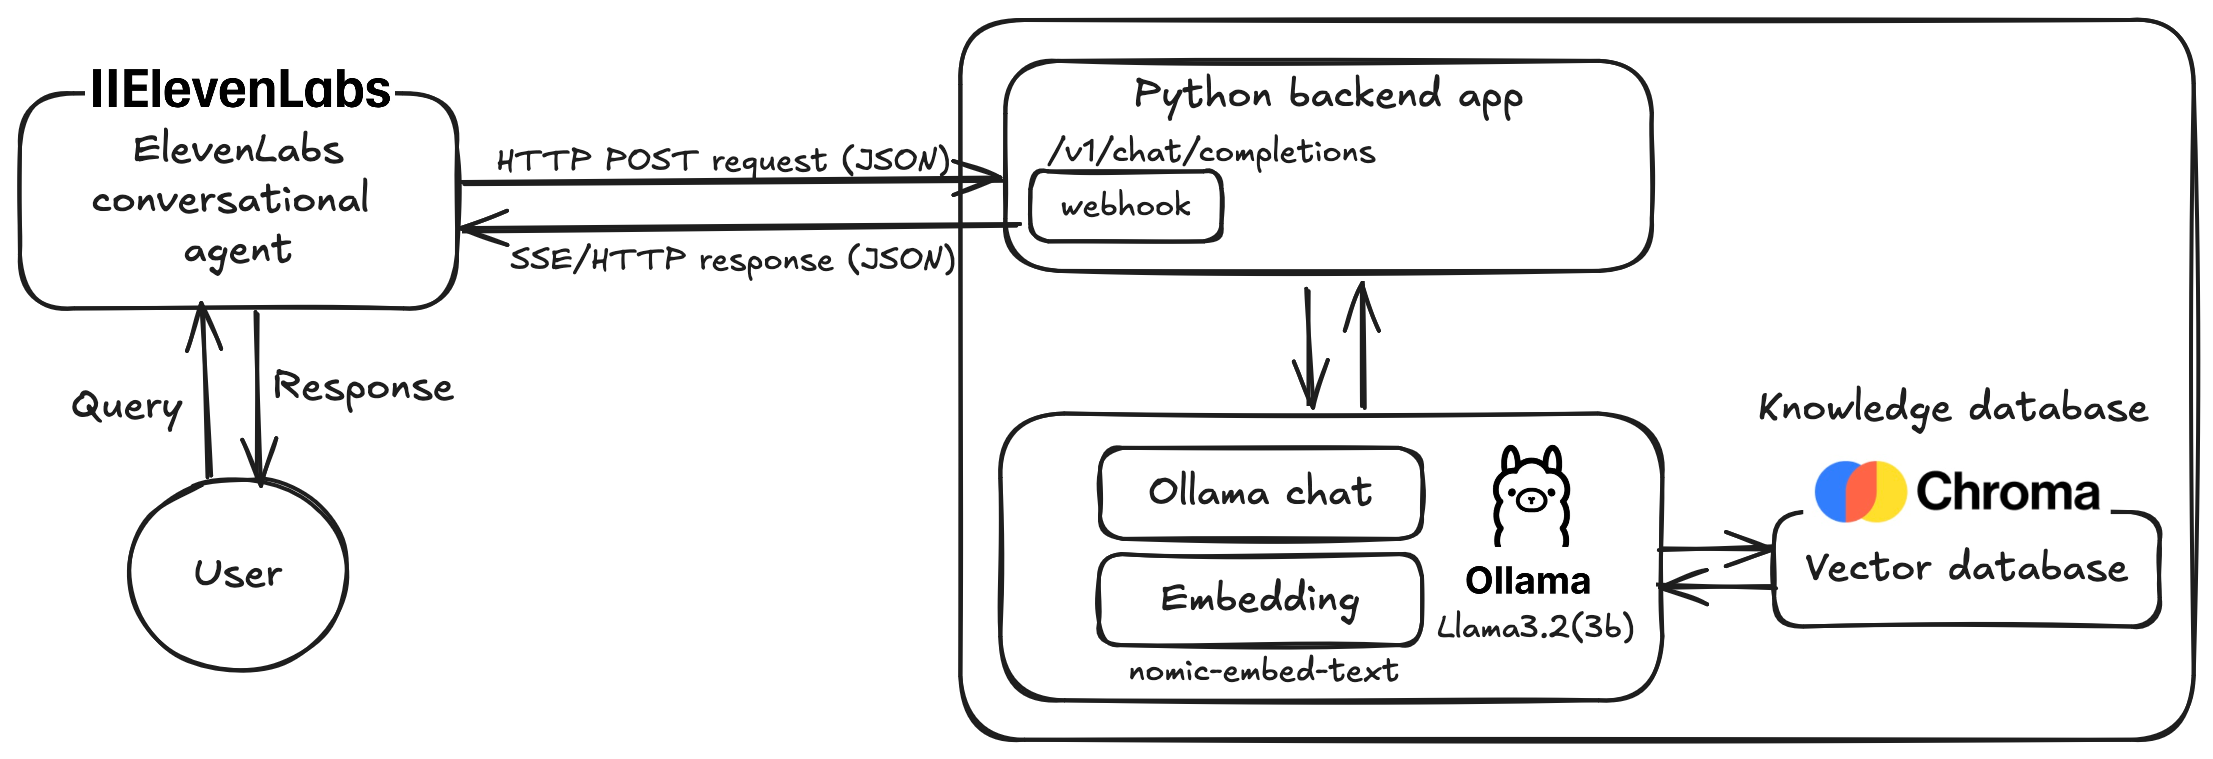
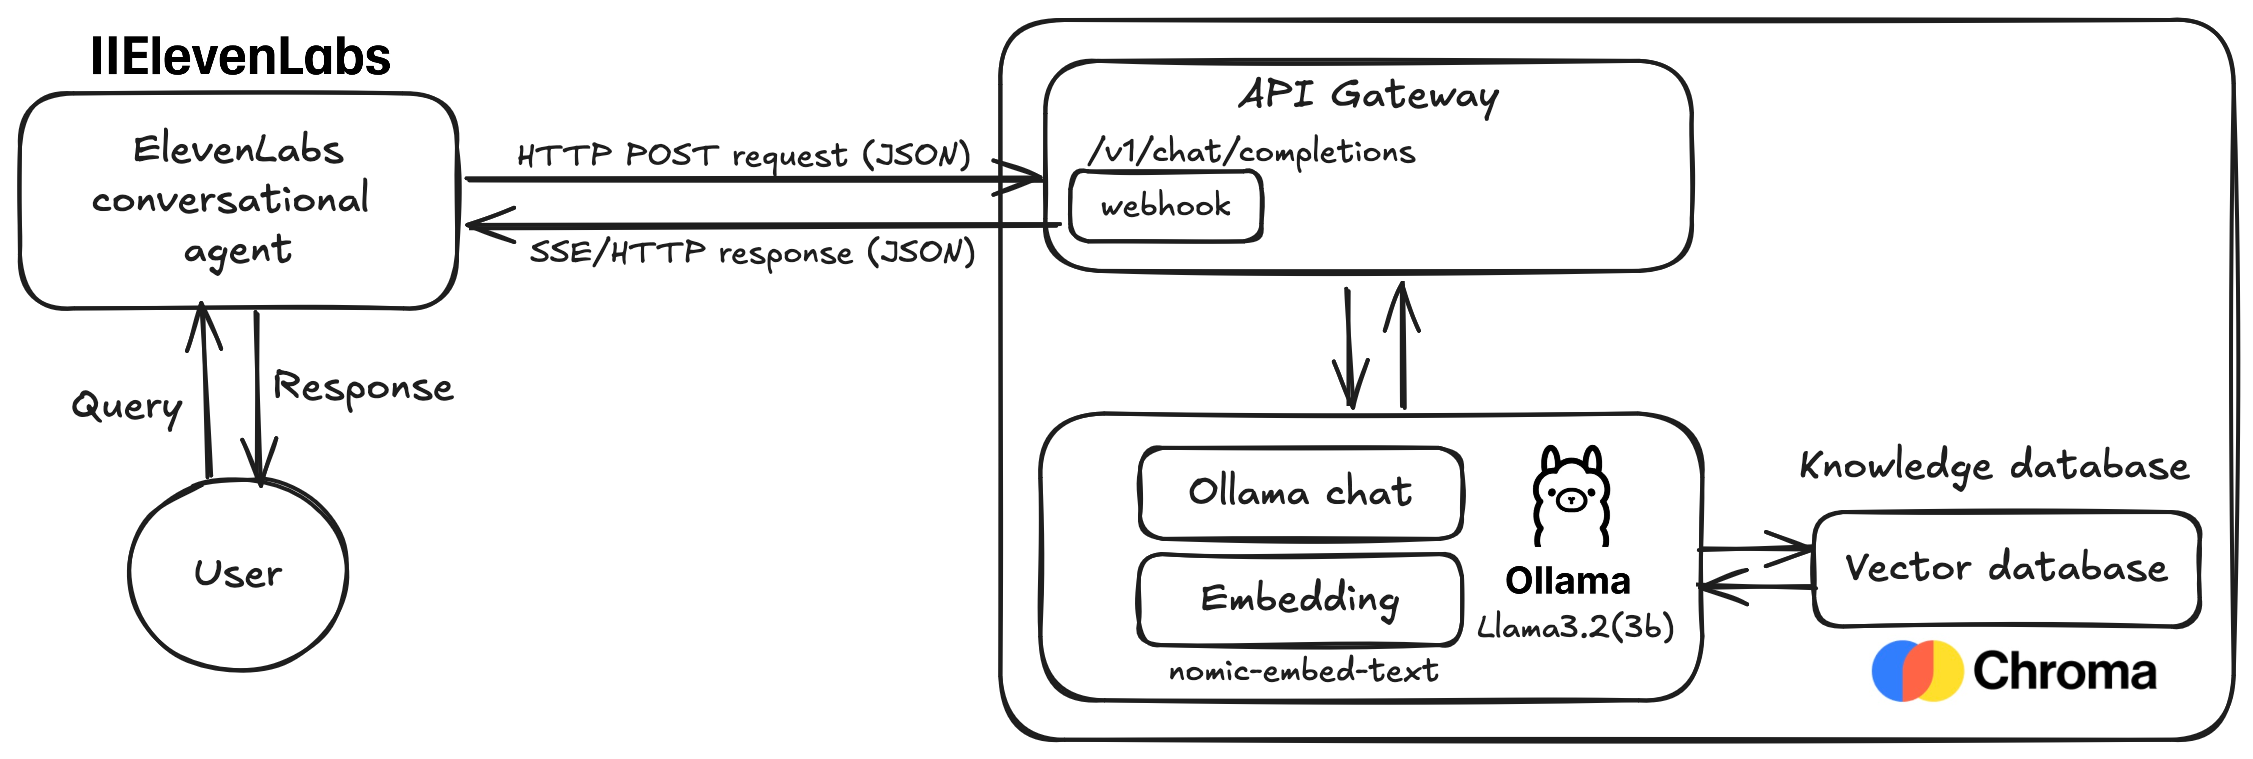
Initial commit

diff --git a/README.md b/README.md
@@ -2,4 +2,4 @@
 
 ## Current examples
 
-- [Conversational AI agent with webhook tool](webhook-tools/README.md) — Integration ElevenLabs conversational AI agent with external knowledge database in local RAG
+- [Conversational AI agent with webhook tool](webhook-tools/README.md) — ElevenLabs conversational AI agent using external knowledge database in local RAG
